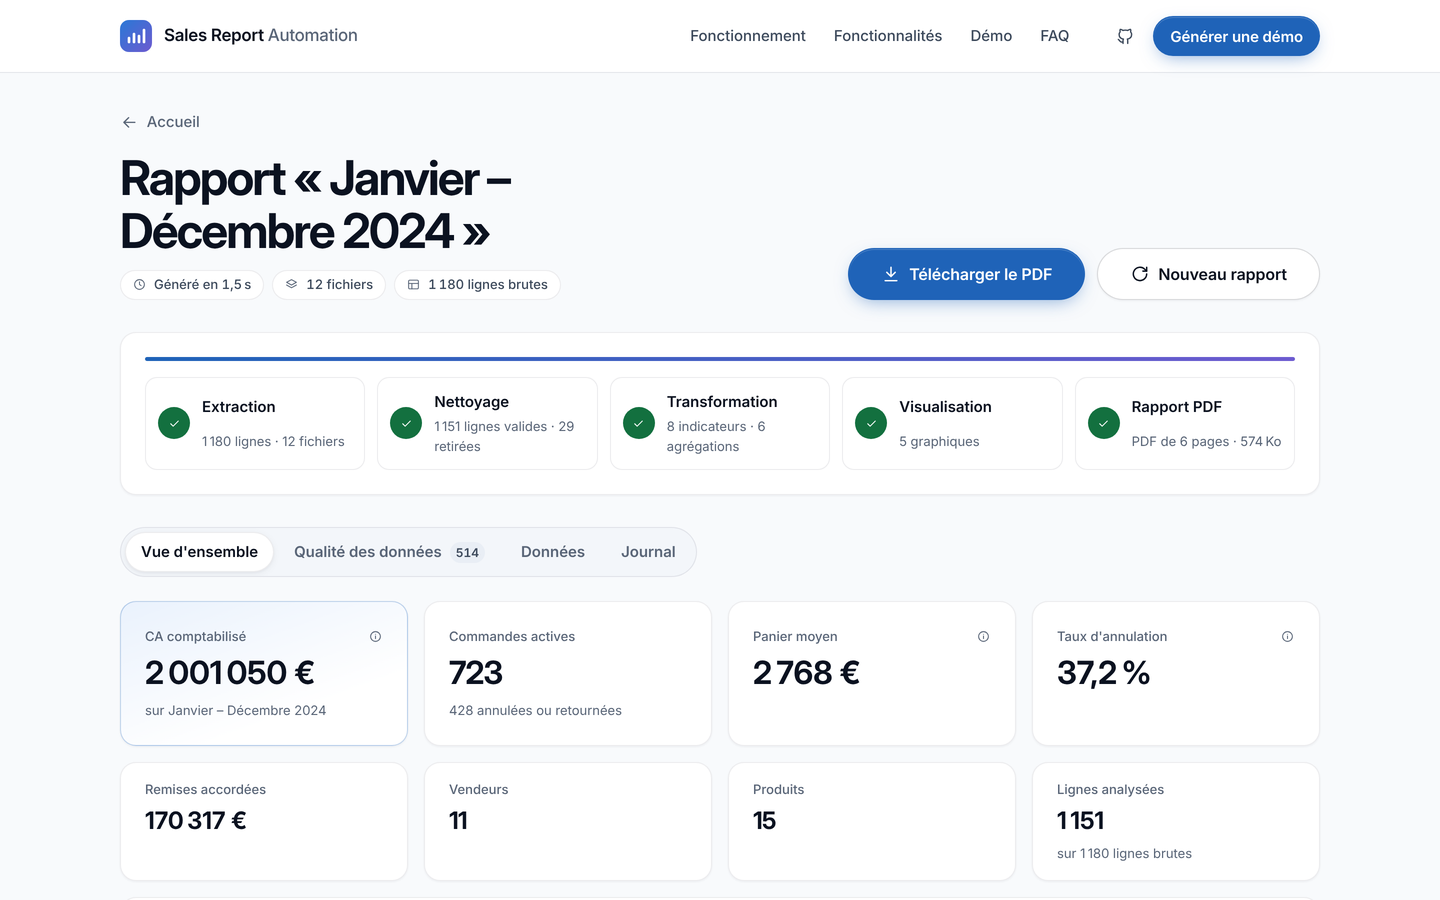
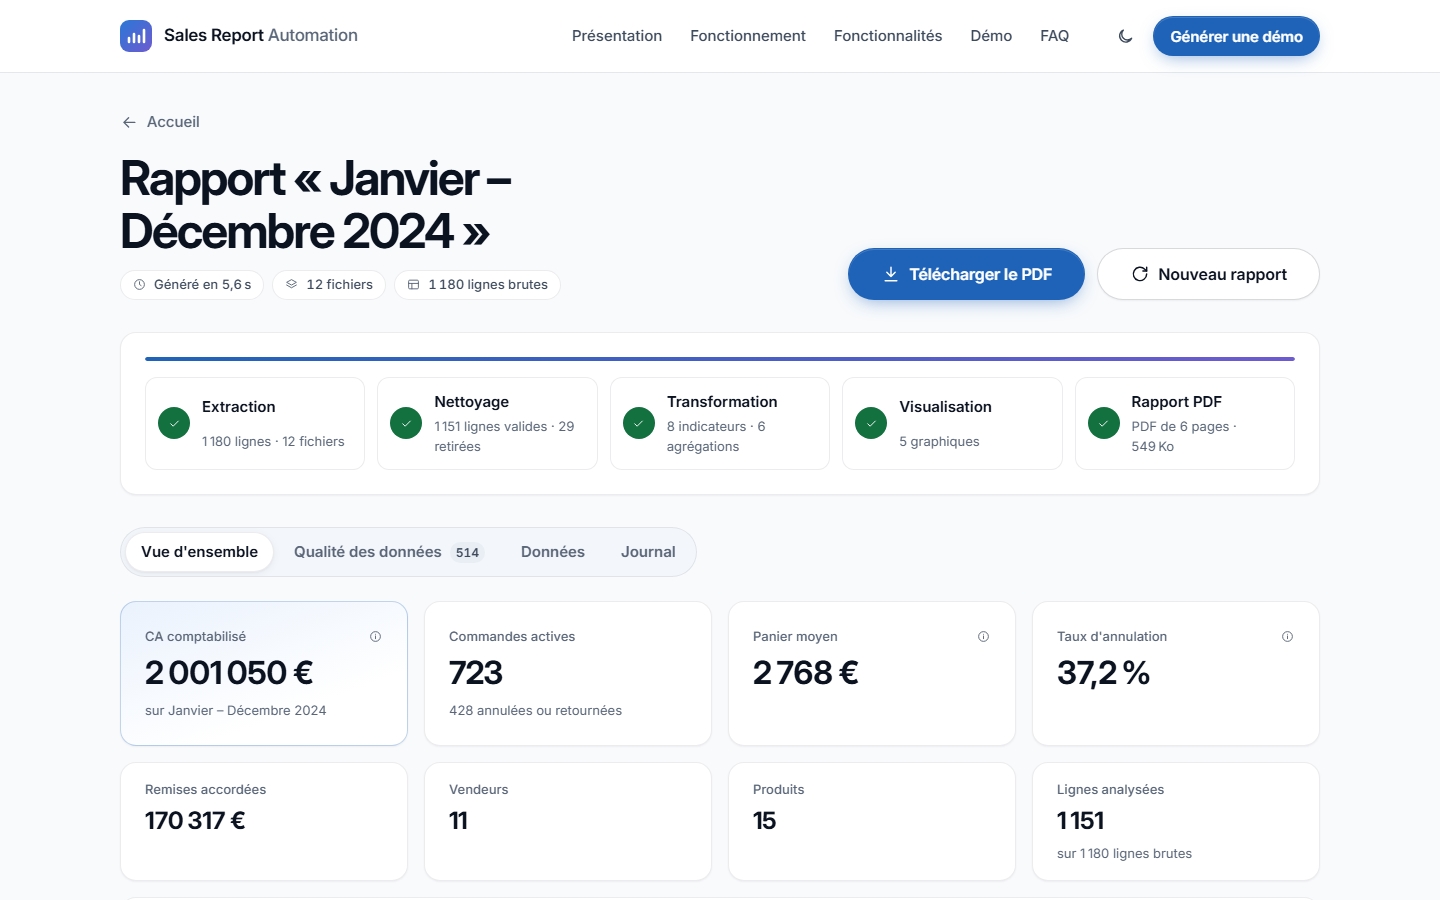
README : mise à jour générale et captures refaites avec la nouvelle interface
- Captures et GIF refaits depuis l'application réelle : onglet
  « Présentation », bouton jour/nuit, plus aucune icône GitHub ; deux
  nouvelles captures (onglet Présentation, fichiers d'exemple)
- Contenu : mise en ligne et présentation vidéo dans « Ce que j'ai fait »,
  fichiers d'exemple, outils (GitHub Actions/Pages, Playwright, ffmpeg),
  tests des nouvelles routes, enseignements sur la mise en ligne, structure,
  Reboot Streamlit, régénération de la vidéo, limites et crédits

diff --git a/README.md b/README.md
@@ -30,7 +30,7 @@ chaque changement de scène, sans aucun droit à céder.*
 
 ![L'application de démonstration en action](docs/images/demo-app.gif)
 
-*L'application en action : un clic sur « Générer un rapport de démo » exécute le vrai pipeline sur 12 fichiers de ventes volontairement mal saisis. Chaque étape s'affiche en direct, puis le tableau de bord présente les indicateurs, les graphiques interactifs et les anomalies corrigées, avec le rapport PDF à télécharger.*
+*L'application en action : un clic sur « Générer un rapport de démo » exécute le vrai pipeline sur 12 fichiers de ventes volontairement mal saisis. Chaque étape s'affiche en direct, puis le tableau de bord présente les indicateurs, les graphiques interactifs et les anomalies corrigées, avec le rapport PDF à télécharger. La vidéo de présentation se retrouve aussi dans l'onglet « Présentation » de l'application.*
 
 ---
 
@@ -72,7 +72,9 @@ Chaque mois, un responsable commercial exporte les ventes depuis le logiciel de 
 | **Calculer les indicateurs** | CA brut, net et comptabilisé, panier moyen, taux d'annulation, remises, puis classements par vendeur, mois, catégorie, région et produit |
 | **Produire le livrable** | 5 graphiques et un rapport PDF A4 de 6 pages, mis en page et horodaté |
 | **Automatiser** | Une seule commande, et une planification qui génère le rapport seule le 1er de chaque mois |
-| **Rendre le projet testable par tous** | Une application web soignée (design system, animations, accessibilité, mobile) qui lance le vrai pipeline sur le serveur depuis le navigateur, sans installation |
+| **Rendre le projet testable par tous** | Une application web soignée (design system, thème clair ou sombre, animations, accessibilité, mobile) qui lance le vrai pipeline sur le serveur depuis le navigateur, sans installation, avec des fichiers d'exemple à télécharger |
+| **Mettre en ligne** | Démo publique hébergée gratuitement sur Streamlit Community Cloud, redéployée à chaque push, gardée éveillée par une visite automatique toutes les 6 heures |
+| **Présenter le projet** | Une vidéo de 40 s en motion design, sur une musique originale composée par code, intégrée à l'application et publiée sur GitHub Pages |
 | **Vérifier chaque résultat** | 207 tests automatisés sur le nettoyage, les calculs, le service et l'API web |
 
 ### Ce que ce projet démontre
@@ -83,7 +85,8 @@ Chaque mois, un responsable commercial exporte les ventes depuis le logiciel de 
 - **Organisation du code** : 5 modules indépendants avec une seule responsabilité chacun, une configuration centralisée, trois interfaces (ligne de commande, planificateur, application web) branchées sur le même cœur.
 - **Pensée utilisateur** : un livrable compréhensible par une direction non technique, et une démo utilisable par un recruteur en un clic, au clavier comme sur mobile.
 - **Soin du produit** : une interface conçue comme un produit fini, avec un design system, des animations au service de la compréhension et une accessibilité vérifiée.
-- **Autonomie** : projet mené seul de bout en bout, de l'identification du besoin au déploiement.
+- **Communication** : une vidéo de 40 secondes qui explique le problème, la solution et ses bénéfices à quelqu'un qui n'ouvrira jamais le code.
+- **Autonomie** : projet mené seul de bout en bout, de l'identification du besoin au déploiement et à la présentation.
 
 ### Pour découvrir le travail en 2 minutes
 
@@ -111,6 +114,7 @@ Chaque mois, un responsable commercial exporte les ventes depuis le logiciel de 
 | Exemple de rapport PDF généré (6 pages) | [rapport_exemple_2024.pdf](examples/rapport_exemple_2024.pdf) |
 | Exemple de fichier CSV source | [ventes_exemple_janvier_2024.csv](examples/ventes_exemple_janvier_2024.csv) |
 | Les 12 exports mensuels de 2024 (CSV), aussi téléchargeables depuis la démo | [examples/ventes_2024/](examples/ventes_2024/) |
+| Musique originale de la vidéo (MP3, libre de droits) | [musique.mp3](assets/video/musique.mp3) |
 | Démonstration pas à pas dans un notebook | [Google Colab](https://colab.research.google.com/github/GomuGomuNo01/sales-report-automation/blob/main/demo_colab.ipynb) |
 
 ## 3. Contexte et objectifs
@@ -147,6 +151,7 @@ Chaque mois, un responsable commercial exporte les ventes depuis le logiciel de 
 | Saisonnalité | plus de commandes en novembre et décembre (Black Friday, fêtes), moins de juin à août |
 | Devise | euros (EUR), prix hors taxes |
 | Anomalies | ajoutées à la demande dans l'application web pour simuler un export ERP réel |
+| Mise à disposition | les 12 fichiers sont dans [`examples/ventes_2024/`](examples/ventes_2024/) et se téléchargent depuis la démo (un mois ou les 12 en un `.zip`) |
 
 ### Structure attendue des fichiers CSV
 
@@ -191,8 +196,10 @@ Les variantes d'accents, de majuscules et d'espaces sont harmonisées. Une valeu
 | **Streamlit (`st.App`) / Starlette** | Serveur web : sert l'interface et l'API de génération (progression en direct) |
 | **pytest** | 207 tests automatisés (nettoyage, calculs, service et API web) |
 | **Streamlit Community Cloud** | Hébergement gratuit de la démo en ligne, redéployée à chaque push sur `main` |
+| **GitHub Actions / GitHub Pages** | Visite automatique de la démo toutes les 6 heures (Playwright), publication de la page de présentation vidéo |
+| **Playwright, ffmpeg, NumPy** | Vidéo de présentation : animation HTML/CSS capturée image par image, musique synthétisée par code, encodage H.264 |
 | **Docker** | Image prête pour l'hébergement (Google Cloud Run, Render) et lancement sans installer Python |
-| **Git / GitHub, Dependabot** | Versionnage, branches de travail, mise à jour automatique des dépendances |
+| **Git / GitHub, Dependabot** | Versionnage, branches `main` et `dev`, mise à jour automatique des dépendances |
 
 ## 7. Méthodologie
 
@@ -293,6 +300,8 @@ L'interface est un frontend sur mesure, sans framework, servi avec son API par `
 | Mobile | Thème sombre |
 |---|---|
 | ![Version mobile](docs/images/app-mobile.png) | ![Thème sombre](docs/images/app-sombre.png) |
+| **Onglet « Présentation »** | **Fichiers d'exemple** |
+| ![Onglet Présentation](docs/images/app-presentation.png) | ![Fichiers d'exemple à télécharger](docs/images/app-exemples.png) |
 
 **Parcours**
 - **Démo en un clic** : 12 mois de données, avec des anomalies typiques d'un export ERP ajoutées volontairement.
@@ -300,7 +309,7 @@ L'interface est un frontend sur mesure, sans framework, servi avec son API par `
 - **Progression en direct** : le serveur envoie l'avancement réel de chaque étape (flux NDJSON), la vue rapport s'ouvre aussitôt avec un squelette de chargement.
 - **Tableau de bord** : 8 indicateurs (dont 3 avec leur mode de calcul en infobulle), 6 graphiques natifs sans bibliothèque : une courbe SVG explorable au survol, au toucher et au clavier, avec sa vue tableau, des barres en HTML/CSS qui affichent leurs valeurs, et une heatmap en tableau HTML. S'y ajoutent le diagnostic qualité, les données nettoyées en CSV et le journal d'exécution.
 - **Téléchargement du rapport PDF** de 6 pages.
-- **Onglet « Présentation »** : en tête du menu, la vidéo de 40 s avec des chapitres cliquables (lecture automatique sans le son, lien direct `#presentation`).
+- **Onglet « Présentation »** : en tête du menu, la vidéo de 40 s avec 6 chapitres cliquables (lecture automatique sans le son, son activé au clic sur un chapitre, lien direct `#presentation`).
 - **Thème clair ou sombre** : la page suit le réglage du système, un bouton dans l'en-tête permet de basculer, et le choix est mémorisé d'une visite à l'autre.
 
 **Design system** ([`tokens.css`](webapp/static/assets/css/tokens.css))
@@ -331,7 +340,7 @@ L'interface est un frontend sur mesure, sans framework, servi avec son API par `
 | [`tests/test_cleaner.py`](tests/test_cleaner.py) | Doublons, valeurs manquantes, types, remises, valeurs négatives, statuts, colonnes temporelles, nettoyage complet |
 | [`tests/test_transformer.py`](tests/test_transformer.py) | CA brut, net et comptabilisé, cohérence des KPIs, tri des classements, heatmap, transformation complète |
 | [`tests/test_service.py`](tests/test_service.py) | Données de démo, anomalies et diagnostic, libellé de période, noms de fichiers sûrs, contrôle des en-têtes et des limites, cache des rapports, pipeline complet |
-| [`tests/test_webapp.py`](tests/test_webapp.py) | Routes de l'API, flux de progression (non mis en tampon, y compris compressé), validations 422, téléchargements PDF et CSV, en-têtes de sécurité |
+| [`tests/test_webapp.py`](tests/test_webapp.py) | Routes de l'API, flux de progression (non mis en tampon, y compris compressé), validations 422, téléchargements PDF et CSV, fichiers d'exemple (liste blanche), vidéo de présentation (requêtes partielles), en-têtes de sécurité |
 
 L'interface a en plus été auditée dans un navigateur réel (accessibilité automatique avec axe-core, clavier seul, 11 tailles d'écran, mouvement réduit, réseau lent), chaque problème trouvé étant vérifié puis corrigé.
 
@@ -460,6 +469,11 @@ EXCLUDED_STATUTS           = ["Annulé", "Retourné"]                # statuts e
 - **Un PDF doit embarquer ses polices** pour afficher correctement les accents et le symbole € sur toutes les machines.
 - **Un fichier minuscule peut coûter très cher** : 12 Ko de CSV avec 300 vendeurs et 300 régions bloquaient le serveur 73 secondes. Des limites vérifiées avant le calcul ramènent ce cas à 0,1 seconde.
 
+**Sur la mise en ligne**
+- **Une démo se vérifie là où elle tourne** : sur Streamlit Community Cloud, l'interface est servie dans une iframe sous `/~/+/`. Il a fallu des adresses relatives et le message `GUEST_READY` pour qu'elle s'affiche, ce qu'aucun test local ne révélait.
+- **Un lien public se contrôle** : le sous-domaine visé au départ appartenait déjà à une autre application ; le README envoyait les visiteurs chez quelqu'un d'autre.
+- **Les offres gratuites ont des limites précises** : les 750 heures mensuelles de Render sont partagées entre tous les services d'un compte, et un simple ping ne réveille pas une application Streamlit. Choisir l'hébergeur demande de lire ces règles avant de déployer.
+
 **Sur l'interface**
 - **Une animation doit expliquer quelque chose** : la progression réelle du pipeline, l'apparition d'un graphique ou le passage d'une vue à l'autre. Les animations décoratives ont été écartées, et toutes disparaissent si l'utilisateur préfère réduire les animations.
 - **Un design system évite les valeurs au hasard** : une couleur, une durée ou un espacement se modifient à un seul endroit.
@@ -489,7 +503,7 @@ sales-report-automation/
 │   ├── service.py               Préparation des données, contrôles, exécution du pipeline, cache
 │   ├── fallback.py              Page « introuvable » (Streamlit) pour les adresses inconnues
 │   └── static/
-│       ├── index.html           Page unique : accueil et vue rapport
+│       ├── index.html           Page unique : accueil, vue rapport et vue présentation
 │       └── assets/
 │           ├── css/             tokens, base, composants, sections, tableau de bord
 │           ├── js/              point d'entrée, motion, composants, formats, démo, tableau de bord, graphiques
@@ -505,10 +519,10 @@ sales-report-automation/
 ├── tests/                       Tests automatisés (pytest)
 ├── examples/                    Exemple de rapport PDF, CSV modèle et 12 exports mensuels 2024 (ventes_2024/)
 ├── docs/                        Guide de déploiement, captures du rapport et de l'application
-├── assets/video/                Présentation vidéo (MP4), son aperçu et sa page web (GitHub Pages)
+├── assets/video/                Présentation vidéo (MP4), son aperçu, sa musique, sa page web (GitHub Pages) et ses sources
 ├── deploy/                      Règle de nettoyage des images (Cloud Run)
 ├── .streamlit/                  Réglages du serveur Streamlit
-├── .github/                     Dependabot et maintien en éveil de la démo (visite automatique toutes les 6 h)
+├── .github/                     Dependabot, visite de la démo toutes les 6 h, publication de la présentation (GitHub Pages)
 ├── data/raw/                    Fichiers CSV d'entrée (non versionnés)
 └── output/                      Rapports, graphiques et journaux générés (non versionnés)
 ```
@@ -518,7 +532,7 @@ sales-report-automation/
 **Option 1 : tester en ligne (recommandé, aucune installation)**
 
 1. Ouvrir la [démo en ligne](https://sales-report-automation-cedric.streamlit.app). Si personne ne l'a ouverte depuis 12 heures, Streamlit affiche une page de mise en veille : cliquer sur le bouton de réveil, puis patienter environ une minute.
-2. Cliquer sur **Générer un rapport de démo**, ou déposer ses propres fichiers CSV dans la section **Démo**.
+2. Cliquer sur **Générer un rapport de démo**, ou déposer ses propres fichiers CSV dans la section **Démo** (des fichiers d'exemple y sont téléchargeables).
 3. Télécharger le rapport PDF.
 
 **Option 2 : installer le projet sur son poste**
@@ -567,6 +581,10 @@ Le guide complet, avec les autres hébergeurs, les commandes et les réglages, e
 
 Sur Cloud Run et Render, l'hébergeur construit l'image à partir du [`Dockerfile`](Dockerfile) et redéploie à chaque push sur `main`. Hugging Face Spaces est écarté : l'hébergement d'une image Docker y est devenu payant.
 
+À savoir sur Streamlit Community Cloud : après un push qui ajoute une route au serveur ([`webapp/api.py`](webapp/api.py)), il faut redémarrer l'application (**Manage app > Reboot app**), car les routes ne sont créées qu'au démarrage.
+
+**Régénérer la vidéo de présentation** : `python assets/video/source/rendu.py` (voir [`assets/video/`](assets/video/)). La page qui la publie est déployée sur GitHub Pages par [`deploy-pages.yml`](.github/workflows/deploy-pages.yml) à chaque modification de la vidéo.
+
 **Problèmes courants**
 
 | Problème | Cause | Solution |
@@ -588,6 +606,7 @@ Sur Cloud Run et Render, l'hébergeur construit l'image à partir du [`Dockerfil
 - **Hébergement gratuit** : après 12 heures sans visite, la démo en ligne se met en veille ; le visiteur suivant doit cliquer sur un bouton pour la réveiller, puis attendre environ une minute. Une tâche GitHub Actions visite la démo toutes les 6 heures pour l'éviter.
 - **Une génération à la fois** : les demandes simultanées attendent leur tour. Les envois sont limités à 30 fichiers, 20 Mo, 200 vendeurs, 50 régions et 50 catégories.
 - **Rapports en mémoire** : un rapport généré en ligne reste téléchargeable jusqu'à une heure (dans la limite des 32 derniers), puis il est effacé.
+- **Vidéo figée** : la présentation est un rendu daté ; si l'application change (nombre de tests, écrans), il faut la régénérer avec `rendu.py`.
 
 **Pistes d'amélioration**
 - Accepter les fichiers **Excel** et détecter automatiquement le **séparateur** et l'**encodage**.
@@ -600,7 +619,8 @@ Sur Cloud Run et Render, l'hébergeur construit l'image à partir du [`Dockerfil
 ## 16. Crédits
 
 - Polices : [DejaVu Fonts](https://dejavu-fonts.github.io/) pour le PDF (licence libre), [Inter](https://rsms.me/inter/) pour l'interface (SIL Open Font License).
-- Bibliothèques : pandas, matplotlib, seaborn, fpdf2, Streamlit, Starlette, pytest.
+- Bibliothèques : pandas, matplotlib, seaborn, fpdf2, Streamlit, Starlette, pytest ; Playwright, NumPy et ffmpeg pour la vidéo.
+- Musique de la vidéo : composée et synthétisée pour le projet par [`musique.py`](assets/video/source/musique.py), sans aucun échantillon externe, sous la même licence que le projet.
 - Licence du projet : [MIT](LICENSE).
 
 **Auteur :** Dibie Elisee Jules Cedric KOUADIO ([@GomuGomuNo01](https://github.com/GomuGomuNo01))
